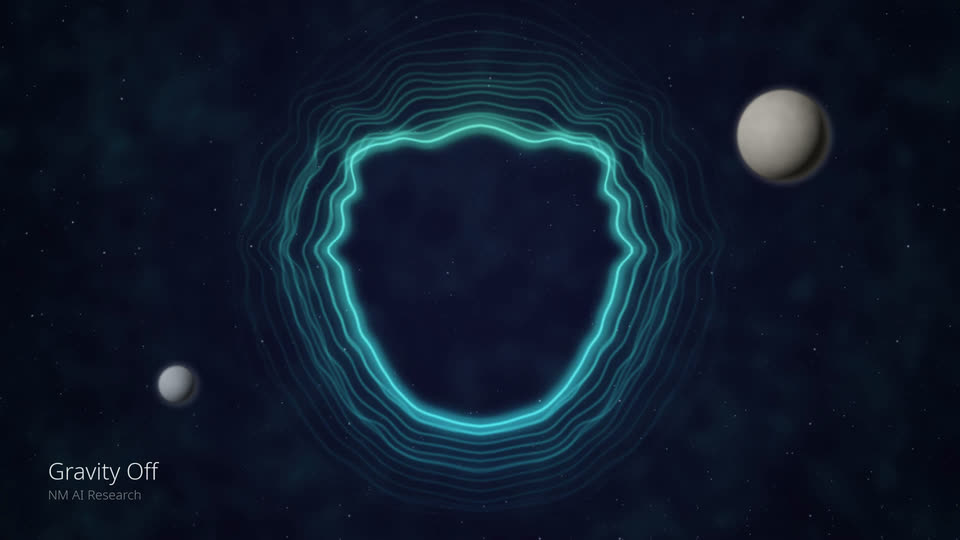
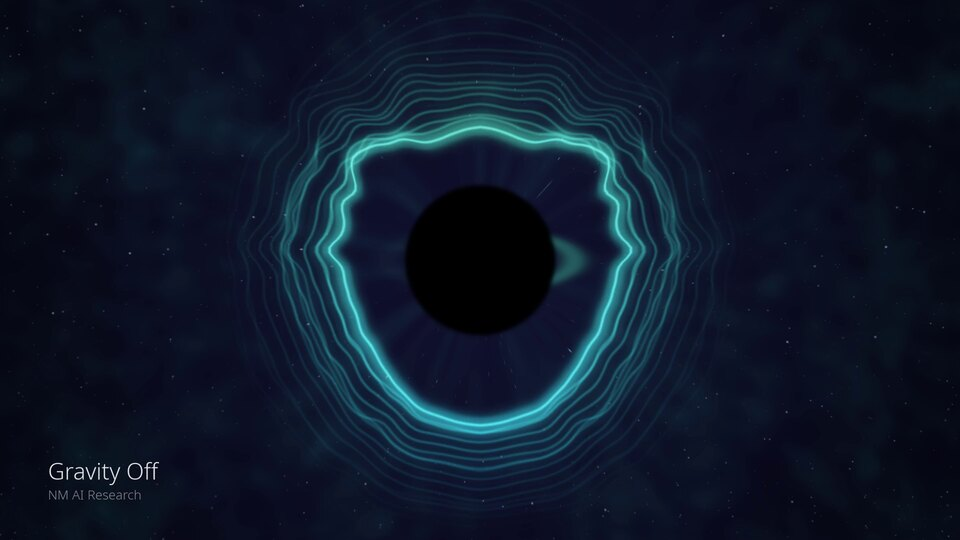
Music Vault: Gravity Off plays its extended mix
The card now plays PKBCym38FU8: take B re-cut at bar lines so chorus 2 plays twice, 3:12, with the Cosmic Halo black-hole video and a new thumbnail. The 2:40 upload eZSKGfh28-Y leaves the page.

diff --git a/music-vault/index.html b/music-vault/index.html
@@ -29,8 +29,8 @@
 <div class="track-meta"><h3>Spark Across the Sky</h3><p>Progressive house; a second take of the same song. <span class="track-len">3:39</span></p></div></li>
 <li class="track"><a class="track-play" href="https://www.youtube.com/watch?v=64HjuZoYcM8" data-video="64HjuZoYcM8" data-title="Neon Csárdás"><img src="thumbs/neon-csardas.jpg" width="960" height="540" alt="" loading="lazy"><span class="play-badge" aria-hidden="true"><svg viewBox="0 0 24 24"><path d="M6 4l15 8-15 8z"/></svg></span><span class="sr-only">Play Neon Csárdás</span></a>
 <div class="track-meta"><h3>Neon Csárdás</h3><p>Melodic house with Hungarian folk violin. <span class="track-len">3:01</span></p></div></li>
-<li class="track"><a class="track-play" href="https://www.youtube.com/watch?v=eZSKGfh28-Y" data-video="eZSKGfh28-Y" data-title="Gravity Off"><img src="thumbs/gravity-off.jpg" width="960" height="540" alt="" loading="lazy"><span class="play-badge" aria-hidden="true"><svg viewBox="0 0 24 24"><path d="M6 4l15 8-15 8z"/></svg></span><span class="sr-only">Play Gravity Off</span></a>
-<div class="track-meta"><h3>Gravity Off</h3><p>Organic afro house with handpan. <span class="track-len">2:40</span></p></div></li>
+<li class="track"><a class="track-play" href="https://www.youtube.com/watch?v=PKBCym38FU8" data-video="PKBCym38FU8" data-title="Gravity Off"><img src="thumbs/gravity-off.jpg" width="960" height="540" alt="" loading="lazy"><span class="play-badge" aria-hidden="true"><svg viewBox="0 0 24 24"><path d="M6 4l15 8-15 8z"/></svg></span><span class="sr-only">Play Gravity Off</span></a>
+<div class="track-meta"><h3>Gravity Off</h3><p>Organic afro house with handpan. <span class="track-len">3:12</span></p></div></li>
 </ol>
 <p class="track-credits">Music generated with YuE2 (m-a-p/YuE2-3B), run locally. Lyrics, arrangement briefs, the Cosmic Halo visualiser and the Neon Csárdás film by Claude Opus 5.5 (Anthropic); selected and curated by NM AI Research.</p>
 </section>
